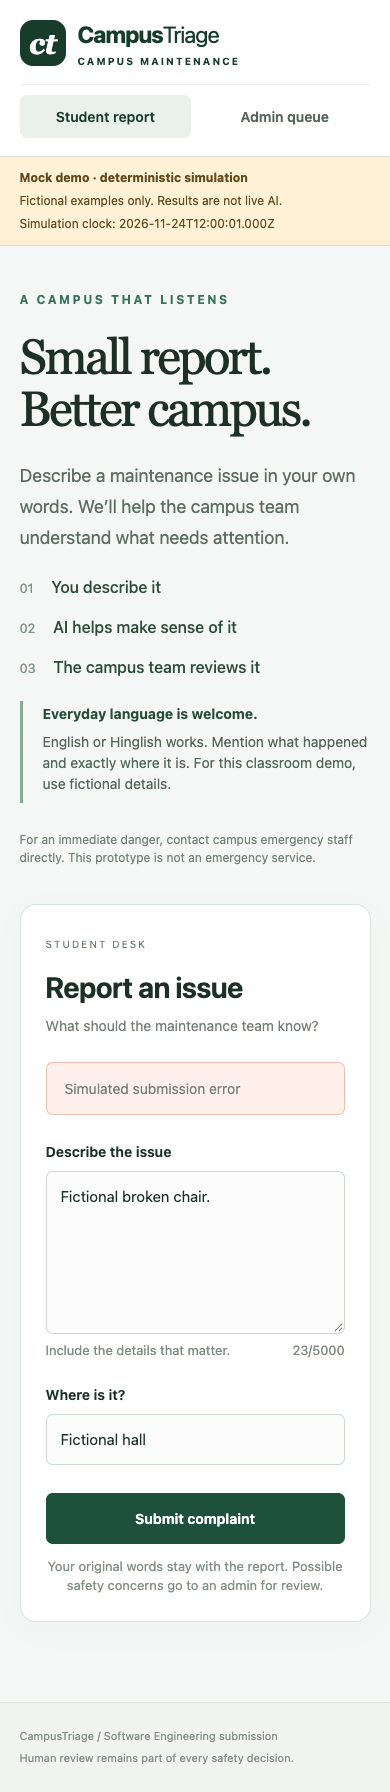
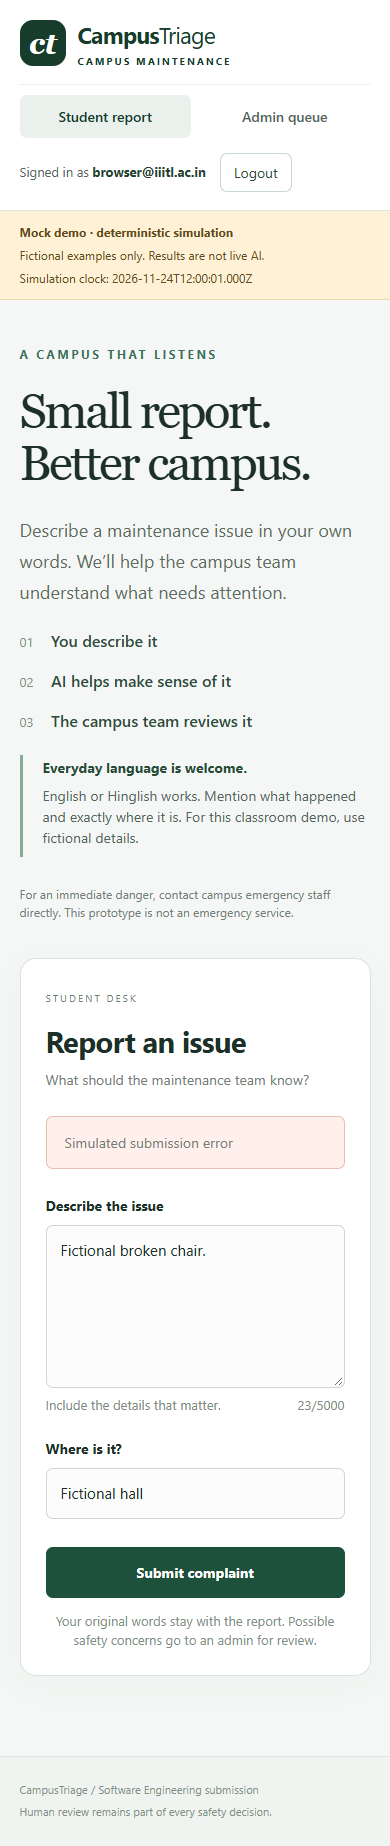
tests: cover student OTP login and submission

diff --git a/server/test/auth.test.js b/server/test/auth.test.js
@@ -1,0 +1,75 @@
+const { test } = require('node:test');
+const assert = require('node:assert/strict');
+const { once } = require('node:events');
+const { createApp } = require('../src/app');
+const { openDatabase } = require('../src/database');
+
+async function setup(t, options = {}) {
+  const db = openDatabase(':memory:'); let time = new Date('2026-11-23T12:00:00.000Z'); const codes = [];
+  const sender = { async sendOtp(email, code) { codes.push({ email, code }); } };
+  const server = createApp({ db, emailSender: sender, sessionSecret: 'auth-test-secret', now: () => time,
+    analyzer: async description => ({ category: 'general', summary: description, possibleSafetyRisk: false, riskEvidence: null, needsReview: false }), ...options }).listen(0, '127.0.0.1');
+  await once(server, 'listening');
+  t.after(async () => { await new Promise(resolve => server.close(resolve)); db.close(); });
+  const base = `http://127.0.0.1:${server.address().port}`;
+  async function request(path, method = 'GET', body, cookie) {
+    const response = await fetch(base + path, { method, headers: { 'Content-Type': 'application/json', ...(cookie ? { Cookie: cookie } : {}) }, body: body === undefined ? undefined : JSON.stringify(body) });
+    return { status: response.status, body: await response.json(), cookie: response.headers.get('set-cookie')?.split(';')[0], setCookie: response.headers.get('set-cookie') };
+  }
+  return { db, codes, request, advance(ms) { time = new Date(time.getTime() + ms); } };
+}
+
+test('student OTP validates domain, normalizes email, hashes code, verifies and starts session', async t => {
+  const { db, codes, request } = await setup(t);
+  for (const email of ['person@gmail.com', 'person@iiitl.ac.in.evil', ' person @iiitl.ac.in']) {
+    assert.equal((await request('/api/auth/student/request-otp', 'POST', { email })).status, 400);
+  }
+  const sent = await request('/api/auth/student/request-otp', 'POST', { email: '  STU@IIITL.AC.IN ' });
+  assert.equal(sent.status, 200); assert.equal(codes[0].email, 'stu@iiitl.ac.in');
+  const stored = db.prepare('SELECT * FROM otp_codes').get();
+  assert.equal(stored.code_hash.includes(codes[0].code), false);
+  assert.equal(stored.expires_at, '2026-11-23T12:10:00.000Z');
+  const verified = await request('/api/auth/student/verify-otp', 'POST', { email: 'stu@iiitl.ac.in', code: codes[0].code });
+  assert.equal(verified.status, 200); assert.match(verified.setCookie, /HttpOnly/); assert.match(verified.setCookie, /SameSite=Lax/);
+  assert.deepEqual(verified.body.student, { email: 'stu@iiitl.ac.in' });
+  assert.deepEqual((await request('/api/auth/student/me', 'GET', undefined, verified.cookie)).body, { student: { email: 'stu@iiitl.ac.in' } });
+});
+
+test('wrong code attempts invalidate at five and expired code is rejected', async t => {
+  const { codes, request, advance, db } = await setup(t);
+  await request('/api/auth/student/request-otp', 'POST', { email: 'wrong@iiitl.ac.in' });
+  for (let i = 0; i < 5; i++) {
+    const response = await request('/api/auth/student/verify-otp', 'POST', { email: 'wrong@iiitl.ac.in', code: '000000' });
+    assert.equal(response.status, 401);
+  }
+  assert.equal(db.prepare('SELECT attempts FROM otp_codes WHERE email = ?').get('wrong@iiitl.ac.in').attempts, 5);
+  advance(60_000);
+  await request('/api/auth/student/request-otp', 'POST', { email: 'expired@iiitl.ac.in' }); advance(10 * 60_000);
+  const expired = await request('/api/auth/student/verify-otp', 'POST', { email: 'expired@iiitl.ac.in', code: codes.at(-1).code });
+  assert.equal(expired.status, 401); assert.match(expired.body.error, /expired/);
+});
+
+test('OTP request resend cooldown and hourly cap return clear errors', async t => {
+  const { request, advance } = await setup(t);
+  await request('/api/auth/student/request-otp', 'POST', { email: 'limits@iiitl.ac.in' });
+  const cooldown = await request('/api/auth/student/request-otp', 'POST', { email: 'limits@iiitl.ac.in' });
+  assert.equal(cooldown.status, 429); assert.match(cooldown.body.error, /wait 60 seconds/);
+  for (let i = 1; i < 5; i++) { advance(60_000); assert.equal((await request('/api/auth/student/request-otp', 'POST', { email: 'limits@iiitl.ac.in' })).status, 200); }
+  advance(60_000);
+  const limited = await request('/api/auth/student/request-otp', 'POST', { email: 'limits@iiitl.ac.in' });
+  assert.equal(limited.status, 429); assert.match(limited.body.error, /5 code requests per hour/);
+});
+
+test('complaint requires student session and saves student id without exposing email to analyzer or queue', async t => {
+  let analyzed;
+  const { db, codes, request } = await setup(t, { analyzer: async description => { analyzed = description; return { category: 'general', summary: description, possibleSafetyRisk: false, riskEvidence: null, needsReview: false }; } });
+  assert.equal((await request('/complaints', 'POST', { description: 'Broken fan', location: 'Hall' })).status, 401);
+  await request('/api/auth/student/request-otp', 'POST', { email: 'private@iiitl.ac.in' });
+  const login = await request('/api/auth/student/verify-otp', 'POST', { email: 'private@iiitl.ac.in', code: codes.at(-1).code });
+  const created = await request('/complaints', 'POST', { description: 'Broken fan', location: 'Hall' }, login.cookie);
+  assert.equal(created.status, 201); assert.equal(analyzed, 'Broken fan');
+  assert.equal(db.prepare('SELECT student_id FROM complaints').get().student_id, db.prepare('SELECT id FROM students WHERE email = ?').get('private@iiitl.ac.in').id);
+  const queue = await request('/complaints'); assert.equal(JSON.stringify(queue.body).includes('private@iiitl.ac.in'), false);
+  const loggedOut = await request('/api/auth/student/logout', 'POST', {}, login.cookie);
+  assert.equal((await request('/api/auth/student/me', 'GET', undefined, loggedOut.cookie)).status, 401);
+});

diff --git a/server/test/api.test.js b/server/test/api.test.js
@@ -12,15 +12,24 @@ const { mockAnalyzeComplaint } = require('../src/analyzer');
 const NOW = '2026-11-23T12:00:00.000Z';
 async function setup(t, options = {}) {
   const db = openDatabase(':memory:');
-  const server = createApp({ db, analyzer: mockAnalyzeComplaint, now: () => new Date(NOW), ...options }).listen(0, '127.0.0.1');
+  let sentCode = null;
+  const emailSender = options.emailSender || { async sendOtp(email, code) { sentCode = code; } };
+  const server = createApp({ db, analyzer: mockAnalyzeComplaint, emailSender, sessionSecret: 'test-session-secret', now: () => new Date(NOW), ...options }).listen(0, '127.0.0.1');
   await once(server, 'listening');
   t.after(async () => {
     await new Promise((resolve, reject) => server.close(error => error ? reject(error) : resolve()));
     db.close();
   });
+  let cookie = '';
+  if (!options.unauthenticated) {
+    const url = `http://127.0.0.1:${server.address().port}`;
+    await fetch(`${url}/api/auth/student/request-otp`, { method: 'POST', headers: { 'Content-Type': 'application/json' }, body: JSON.stringify({ email: 'test@iiitl.ac.in' }) });
+    const response = await fetch(`${url}/api/auth/student/verify-otp`, { method: 'POST', headers: { 'Content-Type': 'application/json' }, body: JSON.stringify({ email: 'test@iiitl.ac.in', code: sentCode }) });
+    cookie = response.headers.get('set-cookie').split(';')[0];
+  }
   async function request(route = '/complaints', method = 'GET', body) {
     const response = await fetch(`http://127.0.0.1:${server.address().port}${route}`, {
-      method, headers: { 'Content-Type': 'application/json' },
+      method, headers: { 'Content-Type': 'application/json', ...(cookie ? { Cookie: cookie } : {}) },
       body: body === undefined ? undefined : JSON.stringify(body),
     });
     return { status: response.status, body: await response.json() };

diff --git a/server/test/analyzer.test.js b/server/test/analyzer.test.js
@@ -94,11 +94,15 @@ test('deadline aborts stalled fetch and stalled body reading', async () => {
 test('HTTP API saves original complaint on real-adapter timeout and exposes mode safely', async t => {
   const db = openDatabase(':memory:');
   const analyzer = createAnalyzer({ env: { ...env, AI_TIMEOUT_MS: '10' }, fetchImpl: () => new Promise(() => {}) });
-  const server = createApp({ db, analyzer }).listen(0, '127.0.0.1');
+  let sentCode;
+  const server = createApp({ db, analyzer, sessionSecret: 'analyzer-test-secret', emailSender: { async sendOtp(email, code) { sentCode = code; } } }).listen(0, '127.0.0.1');
   await once(server, 'listening');
   t.after(async () => { await new Promise(resolve => server.close(resolve)); db.close(); });
   const base = `http://127.0.0.1:${server.address().port}`;
-  const response = await fetch(`${base}/complaints`, { method: 'POST', headers: { 'Content-Type': 'application/json' },
+  await fetch(`${base}/api/auth/student/request-otp`, { method: 'POST', headers: { 'Content-Type': 'application/json' }, body: JSON.stringify({ email: 'ai@iiitl.ac.in' }) });
+  const login = await fetch(`${base}/api/auth/student/verify-otp`, { method: 'POST', headers: { 'Content-Type': 'application/json' }, body: JSON.stringify({ email: 'ai@iiitl.ac.in', code: sentCode }) });
+  const cookie = login.headers.get('set-cookie').split(';')[0];
+  const response = await fetch(`${base}/complaints`, { method: 'POST', headers: { 'Content-Type': 'application/json', Cookie: cookie },
     body: JSON.stringify({ description, location: 'Fictional washroom' }) });
   assert.equal(response.status, 201);
   const saved = await response.json();
